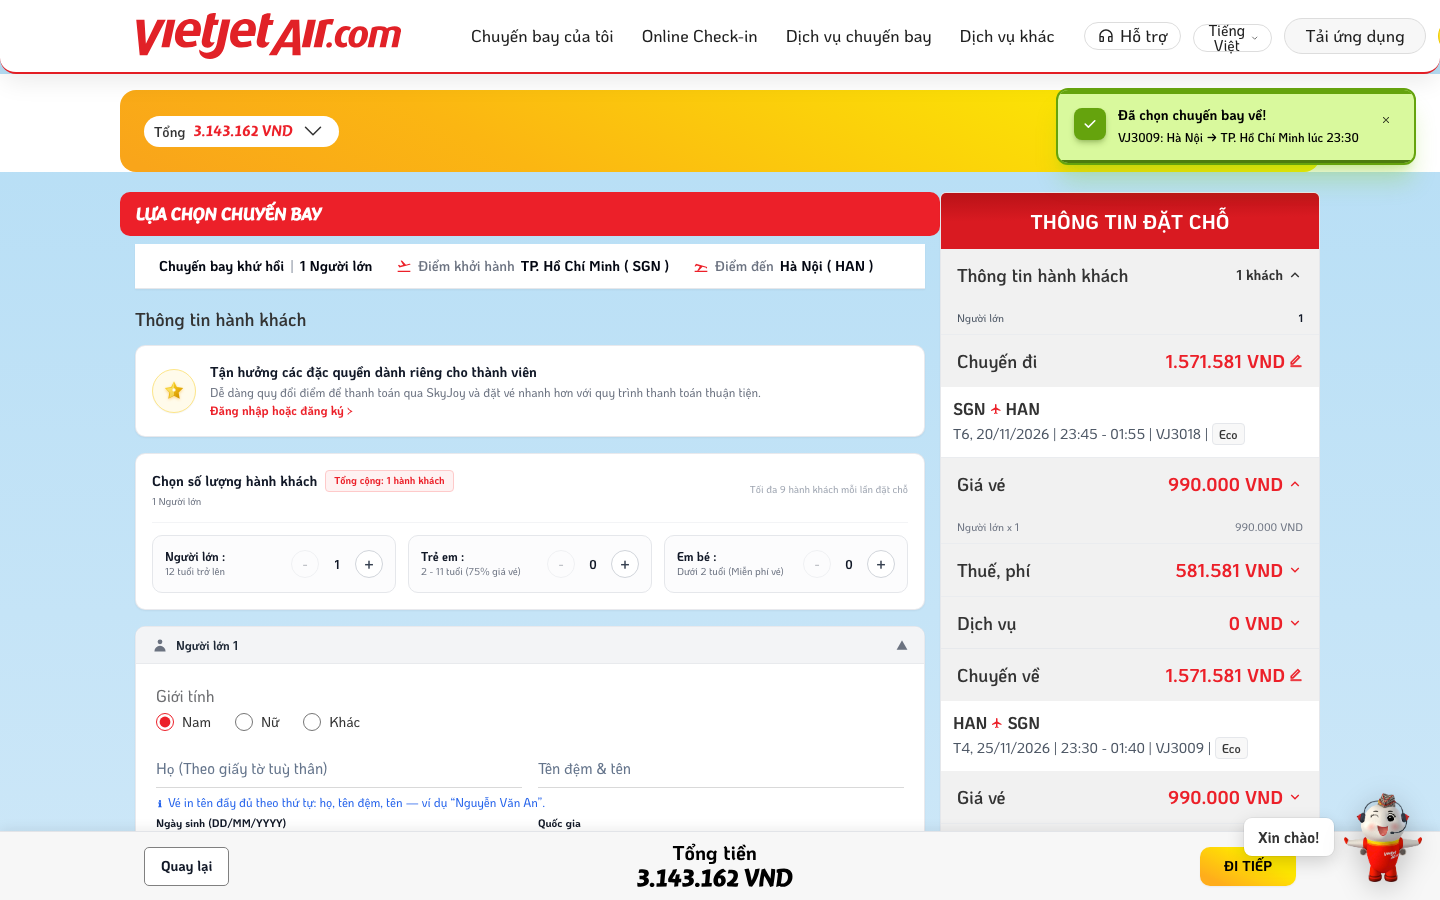
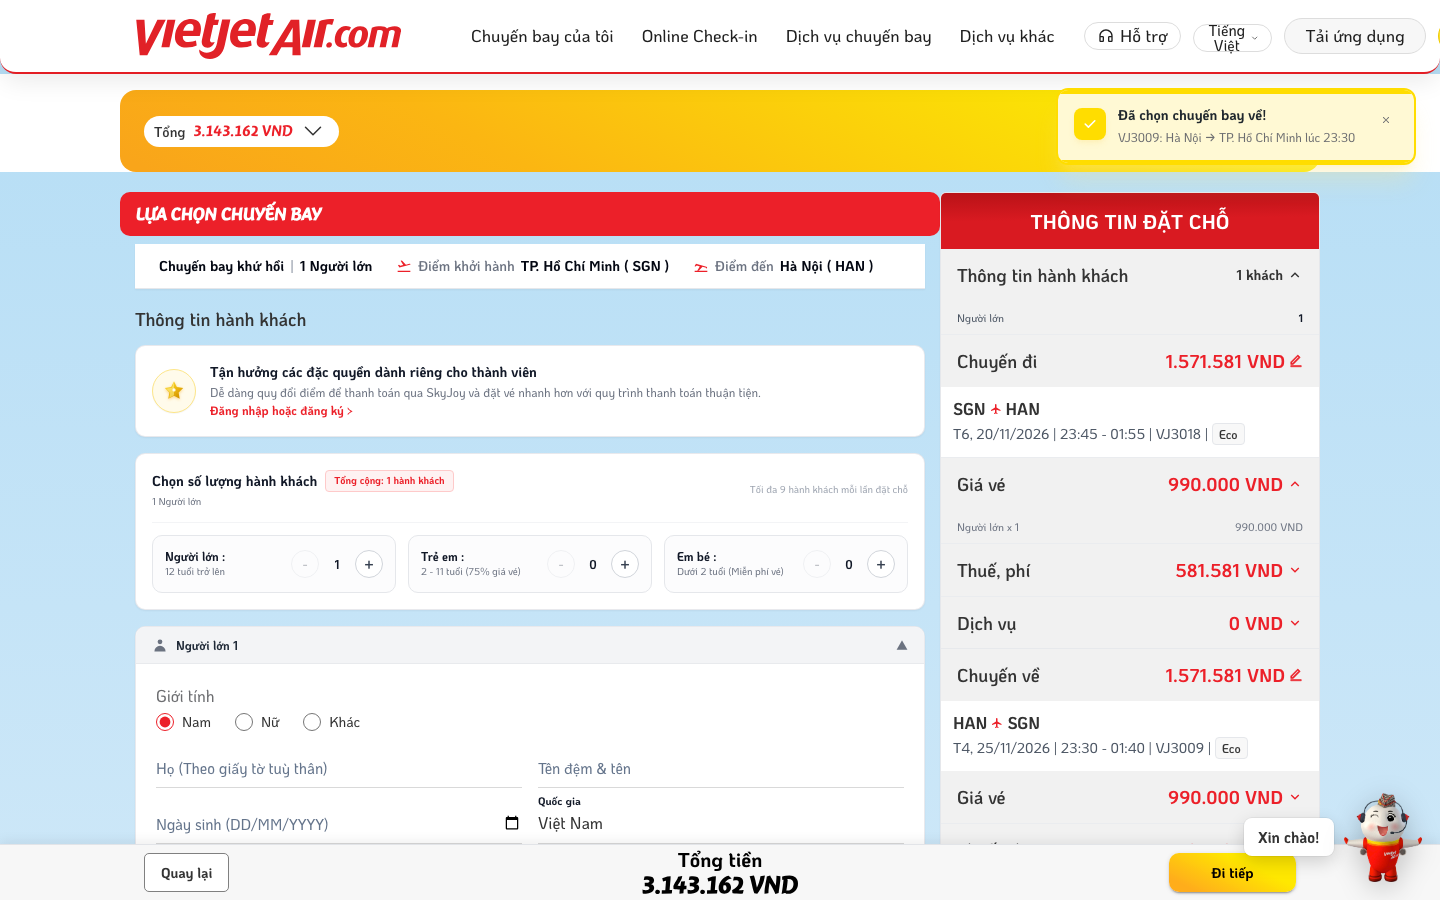
design(booking): đồng bộ form hành khách và chỉnh thanh tổng tiền
Form thông tin hành khách:
- Bỏ opacity-70 trên ô Ngày sinh / Quốc gia / Số điện thoại — các ô này
  trông như bị vô hiệu hoá so với Họ, Tên, Email, CCCD.
- Nhãn Ngày sinh chỉ nổi khi ô có giá trị (filled={!!p.dob}) thay vì luôn
  nổi; thêm CSS ẩn 'mm/dd/yyyy' của Chrome khi ô rỗng để nhãn không chồng chữ.

Thanh tổng tiền (BookingBottomBar):
- Dùng .vj-cta--booking (39px, chữ thường, KoHo 14px) và giữ khung 127px
  cho nhãn ngắn; nhãn dài ở bước chọn ghế tự nới theo nội dung.
- Căn 'Tổng tiền' tuyệt đối vào giữa thanh từ sm — trước đây lệch tâm vì
  hai nút rộng khác nhau, và lệch hẳn khi bước không có nút Quay lại.
- Mobile: chữ tổng tiền nhỏ hơn, thêm spacer cân bằng, không còn chèn nhau.
- Thay h-[39px] bằng token h-9.75.

E2E: thêm ảnh 03b chụp trạng thái đã điền để soi nhãn nổi/căn hàng.
Kiểm tra: type-check sạch, eslint/prettier sạch, 19 unit test pass,
lint:tailwind-classes OK, E2E desktop + mobile 8/8 bước.

diff --git a/vietjetsim-main/src/features/bookings/components/BookingBottomBar.tsx b/vietjetsim-main/src/features/bookings/components/BookingBottomBar.tsx
@@ -46,42 +46,59 @@ export default function BookingBottomBar({
   const action = onContinue ?? onCta;
   const label = ctaLabel ?? continueLabel ?? 'Đi tiếp';
   const isDisabled = disabled || !canContinue;
+  // `.vj-cta--booking` đo trên site thật là 127×39. Nhãn dài ở bước chọn ghế
+  // ("Tiếp tục nhập hành khách") không vừa khung đó, nên chỉ nhãn ngắn mới
+  // giữ đúng số đo; nhãn dài nới theo nội dung.
+  const fitsBookingWidth = label.length <= 12;
 
   return (
     <div
       className="fixed inset-x-0 bottom-0 z-30 border-t border-[var(--border)] bg-[var(--surface)] shadow-vj-up-xs"
       data-testid={testId}
     >
-      {/* Container 1200px — khớp số đo site thật (13/11/2026) */}
-      <div className="mx-auto flex max-w-[1200px] items-center justify-between gap-3 px-3 py-2 sm:px-4 md:px-6">
-        {/* Left: Optional Back button or spacer */}
+      {/* Container 1200px — khớp số đo site thật (13/11/2026).
+       *
+       * Tổng tiền được căn tuyệt đối vào giữa thanh từ `sm` trở lên: dùng
+       * `justify-between` thuần thì con số lệch tâm vì nút "Quay lại" và CTA
+       * rộng khác nhau — và ở bước chọn ghế (không có nút Quay lại) thì lệch
+       * hẳn về trái. Dưới `sm`, nó nằm trong luồng để ba phần tử tự co lại,
+       * không đè lên nhau. */}
+      <div className="relative mx-auto flex max-w-[1200px] items-center justify-between gap-2 px-3 py-2 sm:gap-3 sm:px-4 md:px-6">
+        {/* Left: Optional Back button, hoặc spacer cùng bề rộng để tổng tiền
+         * vẫn cân bằng trên mobile ở bước không có nút Quay lại. */}
         {onBack ? (
           <button
             type="button"
             onClick={onBack}
-            className="rounded-5xs border border-[var(--vj-border-back)] bg-white h-[39px] px-4 text-sm font-bold text-gray-900 transition-colors hover:bg-gray-50 active:scale-95"
+            className="h-9.75 shrink-0 rounded-5xs border border-[var(--vj-border-back)] bg-white px-3 text-sm font-bold text-vj-text transition-colors hover:bg-gray-50 active:scale-95 sm:px-4"
           >
             Quay lại
           </button>
         ) : (
-          <div />
+          <span aria-hidden="true" className="h-9.75 w-20 shrink-0" />
         )}
 
-        {/* Center: Total price */}
-        <div className="flex flex-col items-center leading-tight">
-          <span className="text-2xl3 font-bold text-black font-koho">Tổng tiền</span>
-          <span className="text-xl4 font-bold font-jambono text-black">
+        {/* Center: Total price — nhỏ hơn ở mobile để không chạm hai nút bên cạnh */}
+        <div className="flex min-w-0 flex-col items-center leading-tight sm:absolute sm:left-1/2 sm:top-1/2 sm:-translate-x-1/2 sm:-translate-y-1/2">
+          <span className="text-sm font-bold text-black font-koho sm:text-2xl3">Tổng tiền</span>
+          <span className="w-full truncate text-center text-base font-bold text-black font-jambono sm:text-xl4">
             {total.toLocaleString('vi-VN')} VND
           </span>
         </div>
 
-        {/* Right: primary CTA (.vj-cta gradient vàng) */}
+        {/* Right: primary CTA — `.vj-cta--booking` là biến thể dành riêng cho
+         * luồng đặt vé (39px, chữ thường, font KoHo 14px). Trước đây chỉ dùng
+         * `.vj-cta` nên nút cao 44px và in hoa "ĐI TIẾP", lệch với nút "Đi
+         * tiếp" ở các bước khác. */}
         <button
           type={isSubmit ? 'submit' : 'button'}
           form={formId}
           onClick={isSubmit ? undefined : action}
           disabled={isDisabled}
-          className="vj-cta h-[39px] min-h-[39px] px-6 rounded-vj font-koho text-sm font-black text-black uppercase tracking-normal transition-all shadow-sm disabled:cursor-not-allowed disabled:opacity-50 active:scale-95"
+          data-testid="booking-continue-btn"
+          className={`vj-cta vj-cta--booking shrink-0 transition-all disabled:cursor-not-allowed disabled:opacity-50 active:scale-95 ${
+            fitsBookingWidth ? 'px-3 sm:px-0' : 'w-auto min-w-0 max-w-none px-3 sm:px-6'
+          }`}
         >
           {label}
         </button>

diff --git a/vietjetsim-main/src/features/bookings/components/PassengerInfoStep.tsx b/vietjetsim-main/src/features/bookings/components/PassengerInfoStep.tsx
@@ -461,7 +461,7 @@ export default function PassengerInfoStep({
                       <UnderlineField
                         id={`passenger-${i}-dob`}
                         label="Ngày sinh (DD/MM/YYYY)"
-                        filled
+                        filled={!!p.dob}
                       >
                         <input
                           id={`passenger-${i}-dob`}
@@ -470,7 +470,6 @@ export default function PassengerInfoStep({
                           value={p.dob}
                           onChange={(e) => updatePassenger(i, 'dob', e.target.value)}
                           required
-                          className="opacity-70"
                         />
                       </UnderlineField>
                     </div>
@@ -483,7 +482,6 @@ export default function PassengerInfoStep({
                             value={p.countryCode}
                             onChange={(e) => updatePassenger(i, 'countryCode', e.target.value)}
                             required
-                            className="opacity-70"
                           >
                             {COUNTRY_DIAL_CODES.map((country) => (
                               <option key={country.code} value={country.code}>
@@ -499,11 +497,11 @@ export default function PassengerInfoStep({
                   {/* Số điện thoại & Email */}
                   {isAdult && (
                     <div className="grid grid-cols-1 sm:grid-cols-2 gap-4">
-                      <div className="opacity-70">
+                      <div>
                         <UnderlineField
                           id={`passenger-${i}-phone`}
                           label="Số điện thoại"
-                          filled
+                          filled={!!p.phone}
                           hasPrefix
                         >
                           <span className="flex items-center gap-1 pr-2 text-base font-medium text-vj-text select-none shrink-0">
@@ -676,9 +674,7 @@ export default function PassengerInfoStep({
                         <input
                           type="checkbox"
                           checked={consents.survey}
-                          onChange={(e) =>
-                            setConsents((c) => ({ ...c, survey: e.target.checked }))
-                          }
+                          onChange={(e) => setConsents((c) => ({ ...c, survey: e.target.checked }))}
                           className={CHECKBOX_CLASS}
                         />
                         <span>Thực hiện khảo sát và chăm sóc khách hàng</span>

diff --git a/vietjetsim-main/src/styles/tailwind.css b/vietjetsim-main/src/styles/tailwind.css
@@ -1831,6 +1831,17 @@ h6 {
   cursor: pointer;
 }
 
+/* Chrome luôn vẽ "mm/dd/yyyy" trong ô ngày rỗng, trong khi mọi ô rỗng khác chỉ
+ * hiện nhãn nổi ở giữa. Ẩn phần chữ đó khi ô chưa có giá trị để nhãn "Ngày
+ * sinh (DD/MM/YYYY)" không đè lên; hiện lại khi người dùng focus vào ô. */
+.vj-underline-field[data-filled='false'] input[type='date']::-webkit-datetime-edit {
+  color: transparent;
+}
+
+.vj-underline-field[data-filled='false']:focus-within input[type='date']::-webkit-datetime-edit {
+  color: var(--foreground);
+}
+
 .vj-underline-field input::placeholder {
   color: var(--vj-field-placeholder);
   opacity: 1;
